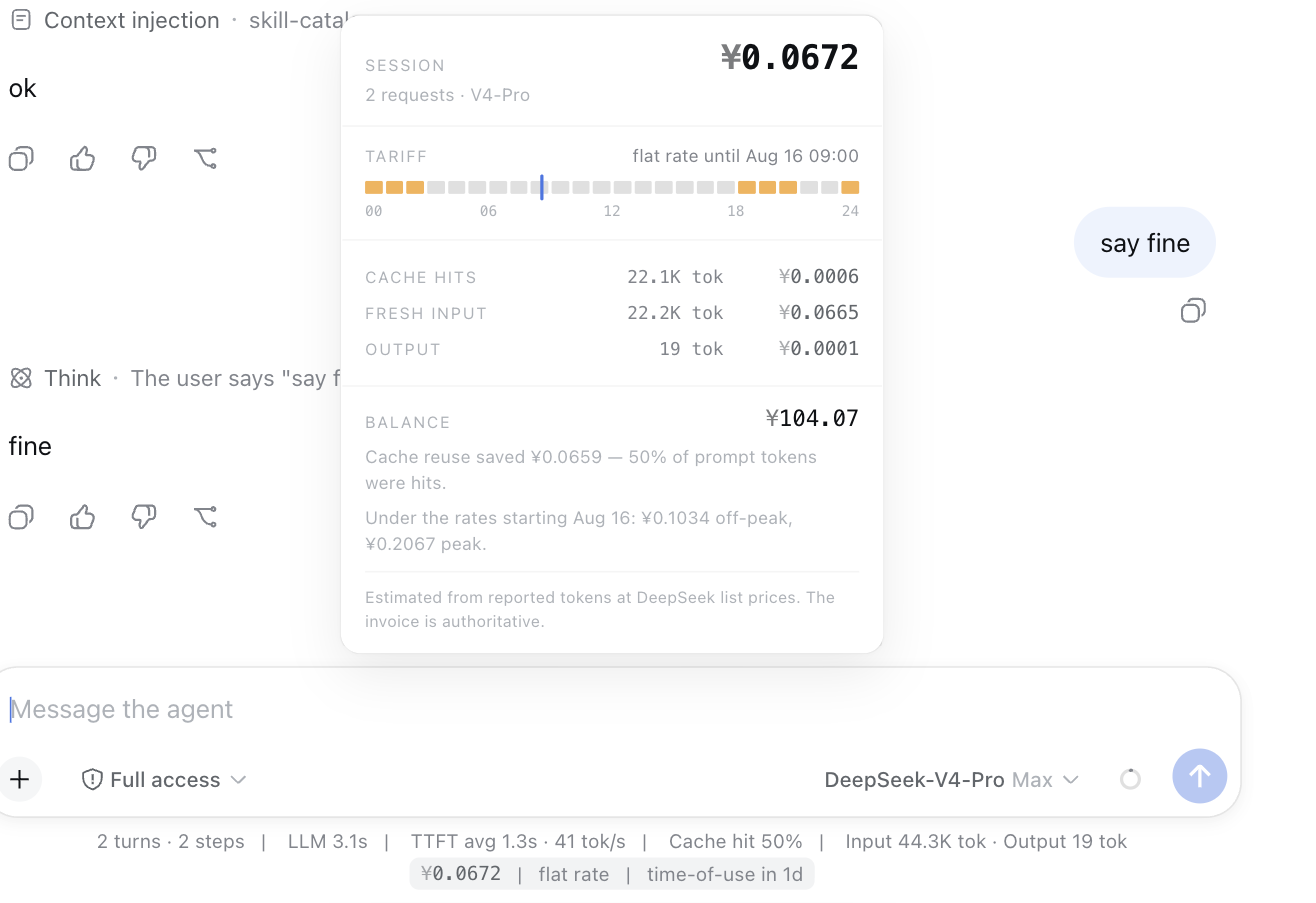
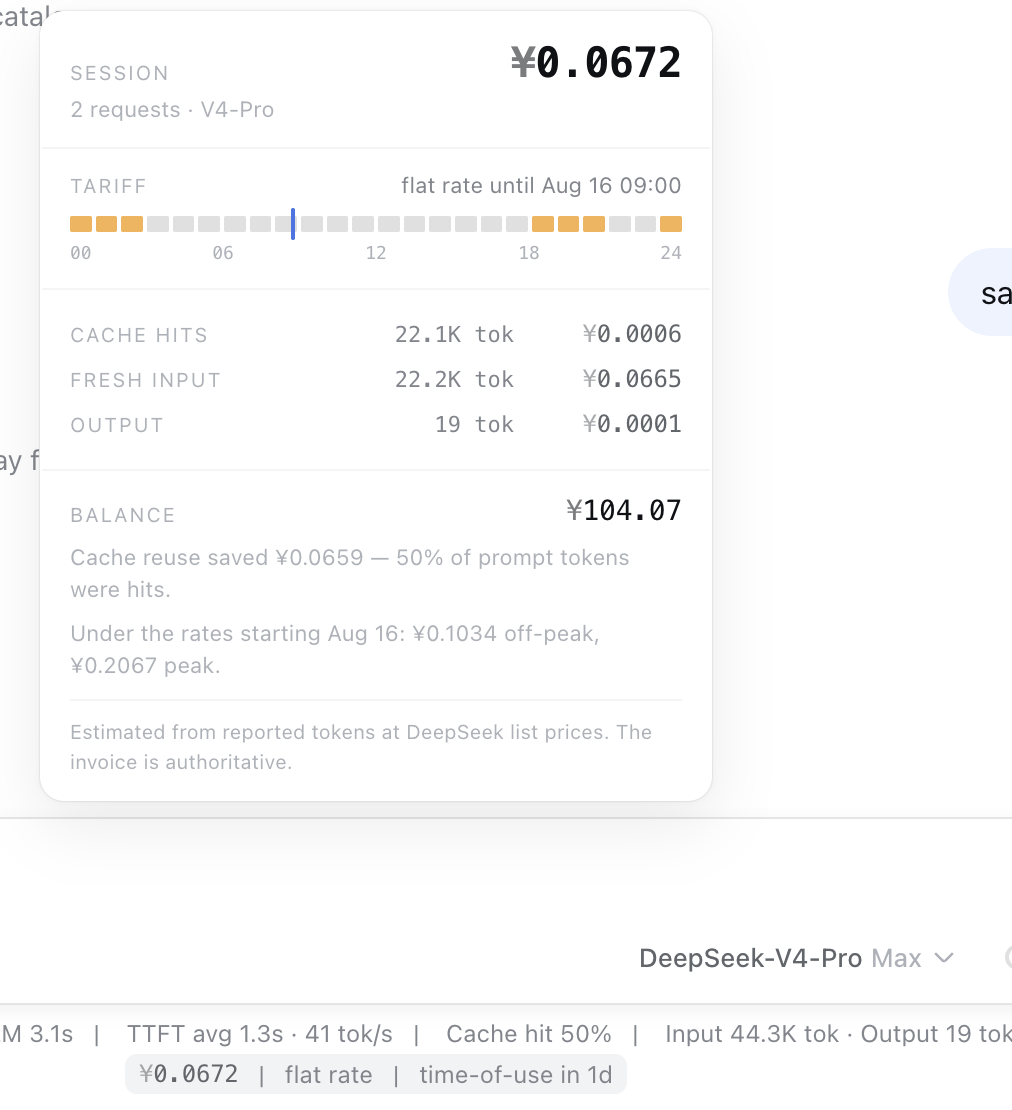
README: crop the hero shot to the instrument
The wide frame spent half its pixels on empty conversation. Cropped to the
card and the dock line it sits beside, both legible at hero size.

diff --git a/README.md b/README.md
@@ -23,7 +23,7 @@ cache economics, and your balance.
 </td>
 <td width="58%" valign="top">
 
-<img src="docs/meter-light.png" alt="The meter's line under the composer, with its card open: session total, tariff clock, cache and input breakdown, and account balance" width="460">
+<img src="docs/meter-light.png" alt="The meter's line under the composer, with its card open: session total, tariff clock, cache and input breakdown, and account balance" width="420">
 
 </td>
 </tr>

diff --git a/README.zh.md b/README.zh.md
@@ -19,7 +19,7 @@
 </td>
 <td width="58%" valign="top">
 
-<img src="docs/meter-light.png" alt="输入框下方的计价行与展开的卡片：会话总价、时段表、缓存与输入拆解、账户余额" width="460">
+<img src="docs/meter-light.png" alt="输入框下方的计价行与展开的卡片：会话总价、时段表、缓存与输入拆解、账户余额" width="420">
 
 </td>
 </tr>
